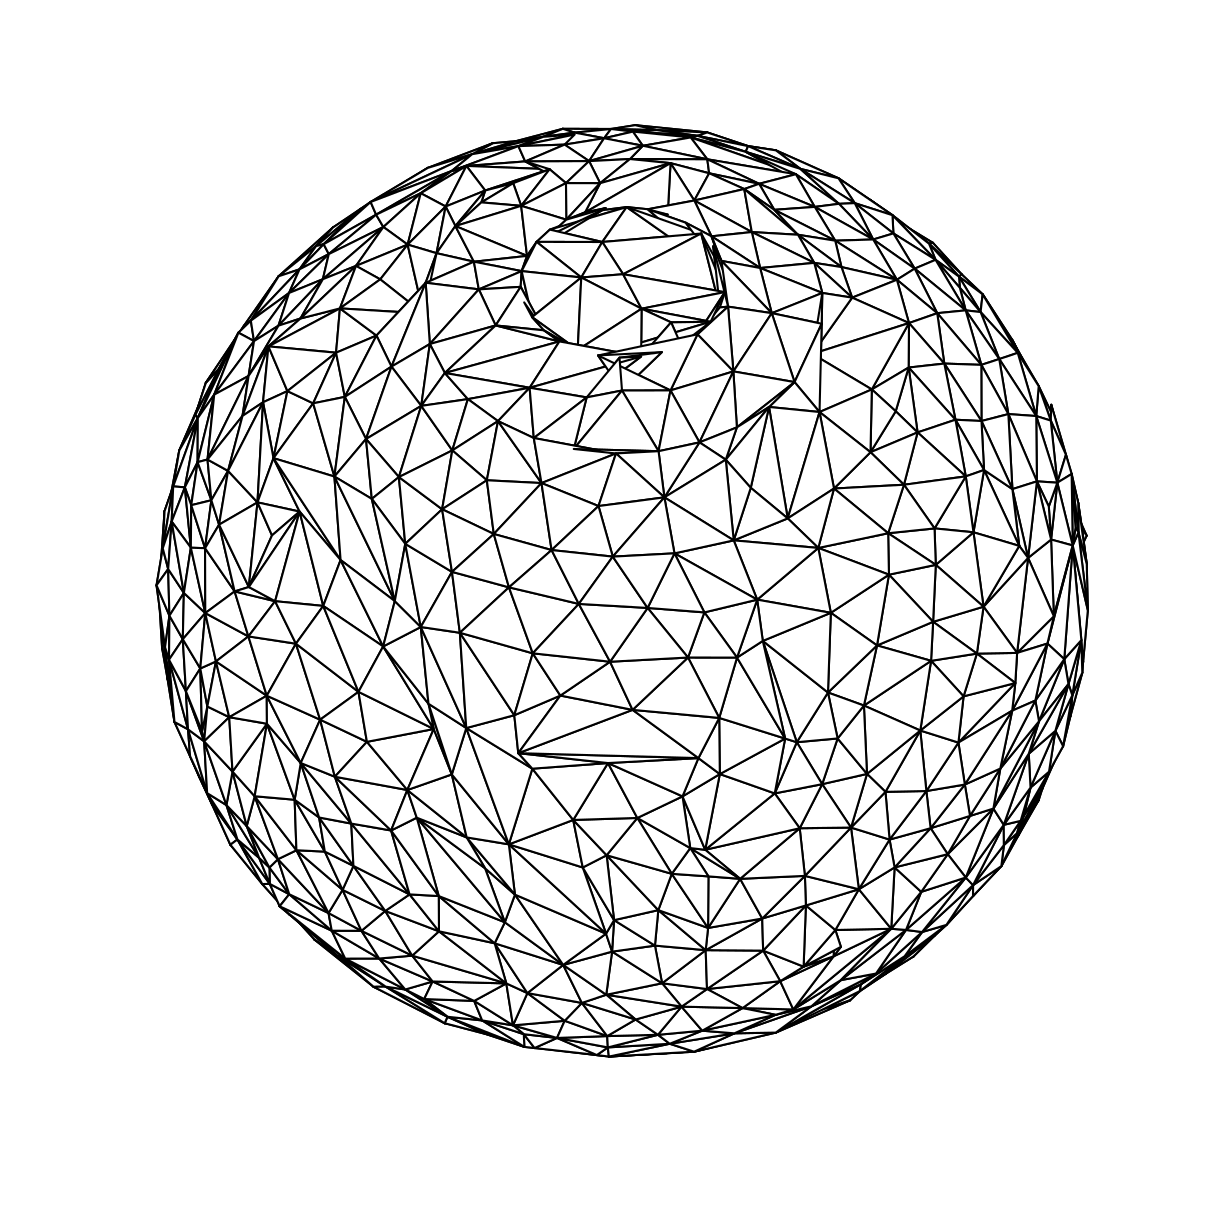
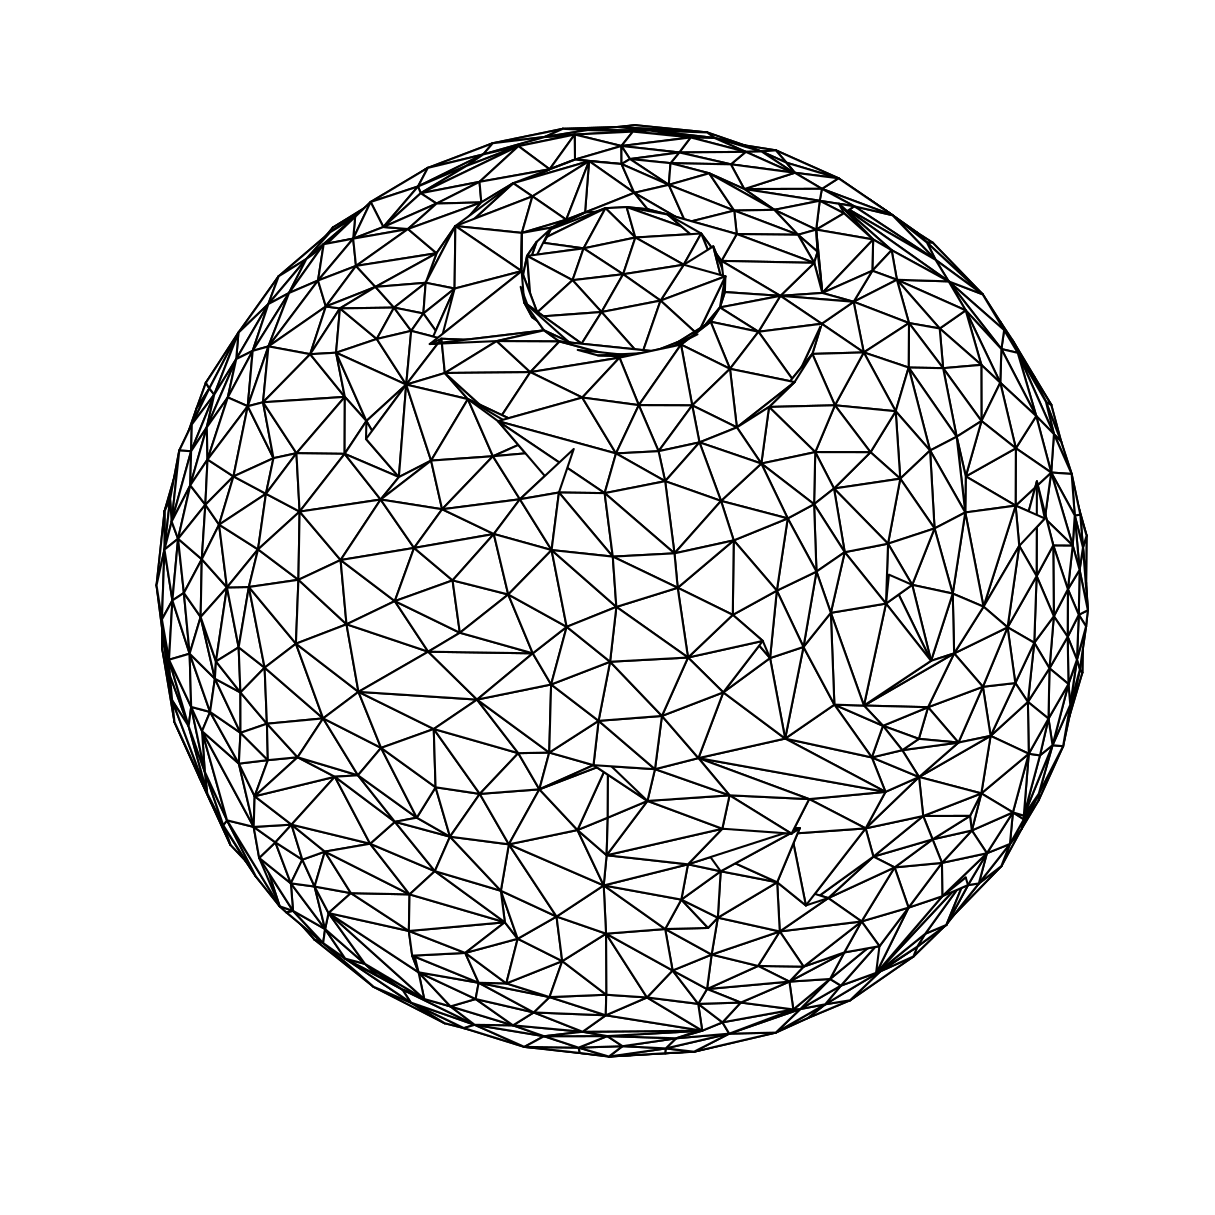
add an example and input mesh

Changed region(s): [[0.1218, 0.0914, 0.9136, 0.8831]]

diff --git a/examples/sphere_0.py b/examples/sphere_0.py
@@ -1,18 +1,16 @@
 import numpy as np 
 import geometric_plotter
 from half_edge import HalfEdgeModel
-from src.isotropic_remesher import utils, IsotropicRemesher
+from src.isotropic_remesher import IsotropicRemesher
 from open3d.geometry import TriangleMesh
 
 sphere = TriangleMesh().create_sphere(radius=1, resolution=15)
 mesh = HalfEdgeModel(sphere.vertices, sphere.triangles)
 
-L_min, L_mean, L_max = utils.compute_len_stats(sphere.vertices)
-print(f'L min = {L_min:.2f} L mean = {L_mean:.2f} L max = {L_max:.2f}')
 remesher = IsotropicRemesher(mesh)
 remesher.isotropic_remeshing(
-    L_mean, 
-    iter=10, 
+    .14, 
+    iter=20, 
     explicit=False, 
     foldover=0,
     sliver=False

diff --git a/examples/sphere_1.py b/examples/sphere_1.py
@@ -1,18 +1,16 @@
 import numpy as np 
 import geometric_plotter
 from half_edge import HalfEdgeModel
-from src.isotropic_remesher import utils, IsotropicRemesher
+from src.isotropic_remesher import IsotropicRemesher
 from open3d.geometry import TriangleMesh
 
 sphere = TriangleMesh().create_sphere(radius=1, resolution=15)
 mesh = HalfEdgeModel(sphere.vertices, sphere.triangles)
 
-L_min, L_mean, L_max = utils.compute_len_stats(sphere.vertices)
-print(f'L min = {L_min:.2f} L mean = {L_mean:.2f} L max = {L_max:.2f}')
 remesher = IsotropicRemesher(mesh)
 remesher.isotropic_remeshing(
-    L_mean, 
-    iter=10, 
+    .14, 
+    iter=20, 
     explicit=True, 
     foldover=0,
     sliver=False

diff --git a/examples/sphere_3.py b/examples/sphere_3.py
@@ -1,18 +1,16 @@
 import numpy as np 
 import geometric_plotter
 from half_edge import HalfEdgeModel
-from src.isotropic_remesher import utils, IsotropicRemesher
+from src.isotropic_remesher import IsotropicRemesher
 from open3d.geometry import TriangleMesh
 
 sphere = TriangleMesh().create_sphere(radius=1, resolution=15)
 mesh = HalfEdgeModel(sphere.vertices, sphere.triangles)
 
-L_min, L_mean, L_max = utils.compute_len_stats(sphere.vertices)
-print(f'L min = {L_min:.2f} L mean = {L_mean:.2f} L max = {L_max:.2f}')
 remesher = IsotropicRemesher(mesh)
 remesher.isotropic_remeshing(
-    L_mean, 
-    iter=10, 
+    .14, 
+    iter=20, 
     explicit=True, 
     foldover=10,
     sliver=True

diff --git a/examples/sphere_4.py b/examples/sphere_4.py
@@ -11,9 +11,9 @@ remesher = IsotropicRemesher(mesh)
 remesher.isotropic_remeshing(
     .14, 
     iter=20, 
-    explicit=True, 
-    foldover=10,
-    sliver=False
+    explicit=False, 
+    foldover=0,
+    sliver=True
 )
 
 remesher.model.clean()
@@ -26,4 +26,4 @@ geometric_plotter.plot_trisurf(ax, np.asarray(remesher.model.vertices), np.asarr
 
 geometric_plotter.config_ax(ax, (50,50,0), 1.5)
 
-geometric_plotter.execute(folder='E:\Repositorios\isotropic_remesher\export\\', name='sphere_2')
+geometric_plotter.execute(folder='E:\Repositorios\isotropic_remesher\export\\', name='sphere_4')

diff --git a/examples/sphere_input.py b/examples/sphere_input.py
@@ -1,0 +1,15 @@
+import numpy as np 
+import geometric_plotter
+from open3d.geometry import TriangleMesh
+
+sphere = TriangleMesh().create_sphere(radius=1, resolution=15)
+
+geometric_plotter.set_export()
+
+ax = geometric_plotter.figure(figsize=(5,5))
+
+geometric_plotter.plot_trisurf(ax, np.asarray(sphere.vertices), np.asarray(sphere.triangles), color='k')
+
+geometric_plotter.config_ax(ax, (50,50,0), 1.5)
+
+geometric_plotter.execute(folder='E:\Repositorios\isotropic_remesher\export\\', name='sphere_input')
